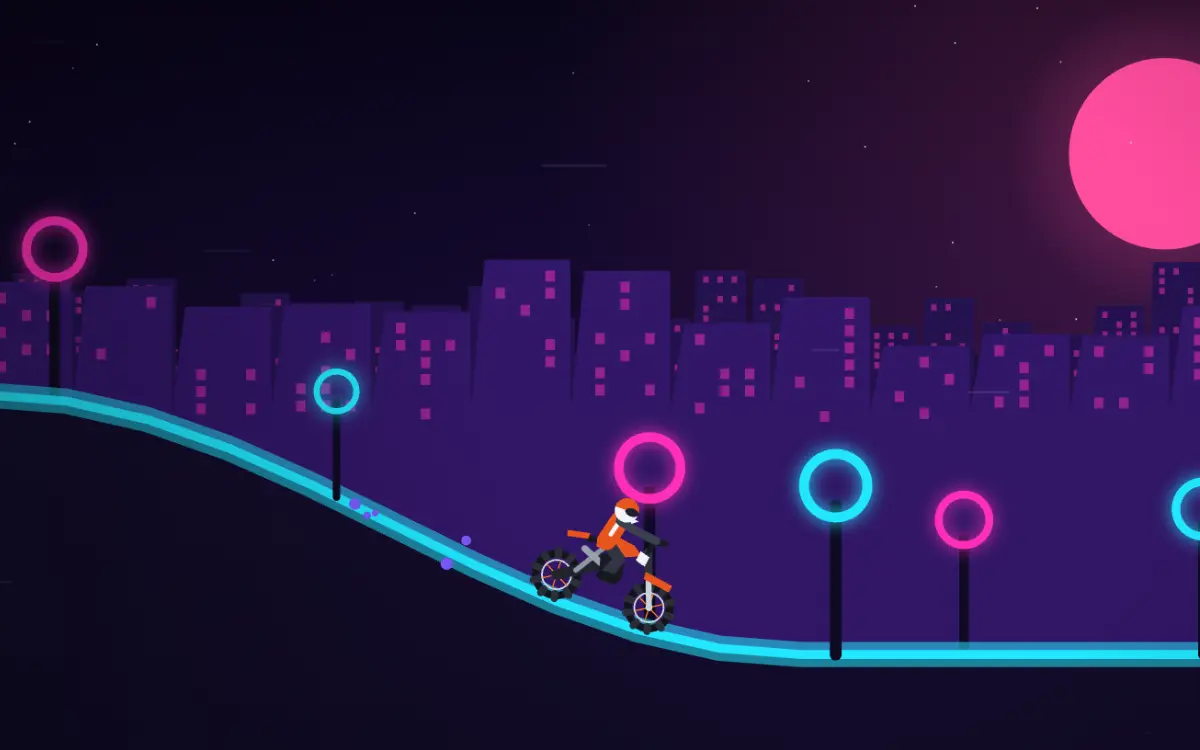
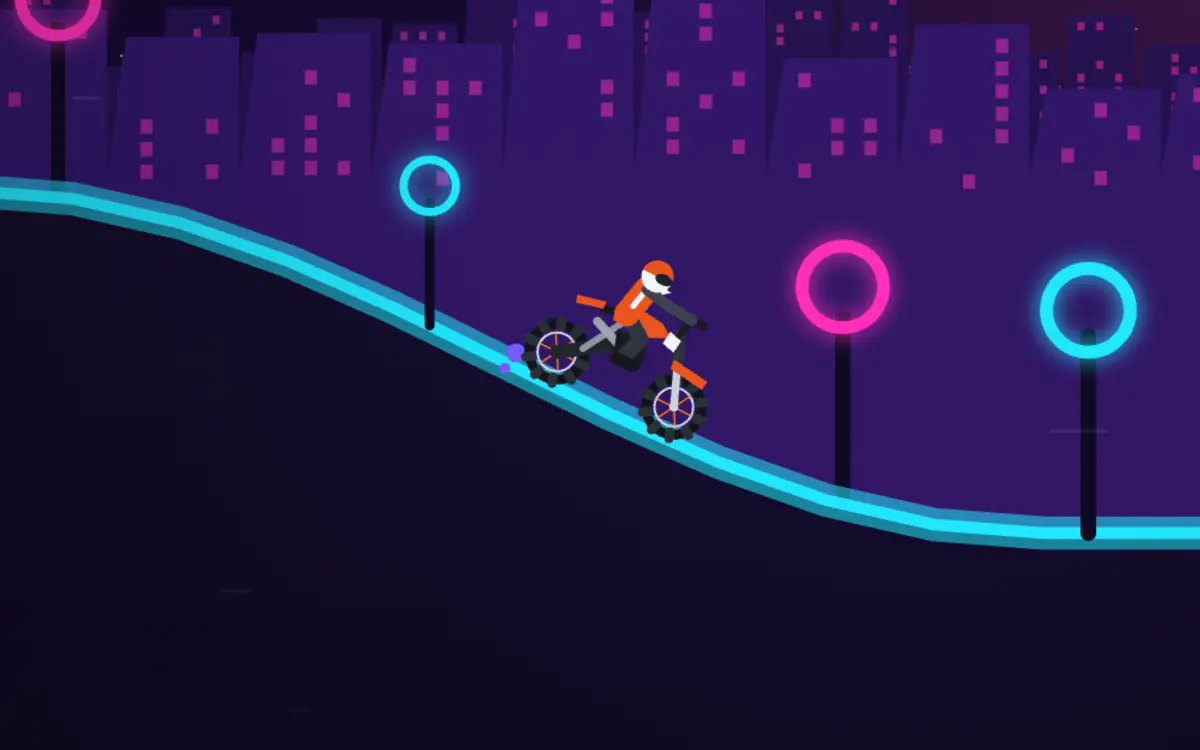
Resserre la vignette de Motopeter sur le motard et réordonne les jeux
Nouvelle liste "ordre" dans portfolio.json : les lignes citées (versions
comprises, ex. qwemup/clauded) passent en tête dans cet ordre.

Claude-Session: https://claude.ai/code/session_01WhWzxcP3VrJ1wEomCkFgci

diff --git a/index.html b/index.html
@@ -323,58 +323,13 @@ button{font:inherit;color:inherit}
     <div class="works-grid">
       <ol class="list" id="list">
         <!-- auto:projets -->
-        <li class="w" data-cat="jeu" style="--h:14">
-          <a href="/motopeter/">
-            <img class="w-img" src="/vignettes/motopeter.webp" alt="" width="1200" height="750" loading="lazy" decoding="async">
-            <span class="w-t"><span>Motopeter</span></span>
-            <span class="w-m">Claude Fable 5.1</span>
-            <span class="w-d">Trial 2D à moteur physique : inertie, suspensions, figures et nitro. Au clavier comme au doigt, sur plusieurs terrains.</span>
-            <span class="w-n" aria-hidden="true">01</span>
-          </a>
-        </li>
-        <li class="w" data-cat="jeu" style="--h:355">
-          <a href="/berceuse/">
-            <img class="w-img" src="/vignettes/berceuse.webp" alt="" width="1200" height="750" loading="lazy" decoding="async">
-            <span class="w-t"><span>Berceuse</span></span>
-            <span class="w-m">Claude Opus 5.5</span>
-            <span class="w-d">Horreur en 3D à la première personne : retrouver les quatre cylindres d'une boîte à musique dans une maison où Madame Vey n'avance que quand on ne la regarde pas… ou quand on <em>cligne des yeux</em>.</span>
-            <span class="w-n" aria-hidden="true">02</span>
-          </a>
-        </li>
-        <li class="w" data-cat="jeu" style="--h:18">
-          <a href="/baston/">
-            <img class="w-img" src="/vignettes/baston.webp" alt="" width="1200" height="750" loading="lazy" decoding="async">
-            <span class="w-t"><span>World Baston '96</span></span>
-            <span class="w-m">Claude Opus 5.5</span>
-            <span class="w-d">Jeu de baston 2D façon arcade 1996 : dix combattants du monde entier et un boss, coups spéciaux et supers, campagne avec un avion qui survole la <em>mappemonde</em> entre chaque combat, duel à deux, mode entraînement, compatible manette.</span>
-            <span class="w-n" aria-hidden="true">03</span>
-          </a>
-        </li>
-        <li class="w" data-cat="jeu" style="--h:350">
-          <a href="/beatemall/">
-            <img class="w-img" src="/vignettes/beatemall.webp" style="object-position:90% 0%" alt="" width="1200" height="750" loading="lazy" decoding="async">
-            <span class="w-t"><span>Rage in the City</span></span>
-            <span class="w-m">Claude Opus 5.5</span>
-            <span class="w-d">Beat'em up à défilement horizontal dans une ville rongée par le crime, 1989 : trois héros (catcheur, combattant de rue, ninja), prises, suplex, armes à ramasser, cinq niveaux dont un <em>métro en marche</em> et cinq boss. En solo ou à deux sur le même clavier.</span>
-            <span class="w-n" aria-hidden="true">04</span>
-          </a>
-        </li>
         <li class="w" data-cat="jeu" style="--h:24">
           <a href="/ultraroad/">
             <img class="w-img" src="/vignettes/ultraroad.webp" alt="" width="1200" height="750" loading="lazy" decoding="async">
             <span class="w-t"><span>UltraRoad</span></span>
             <span class="w-m">Claude Opus 5.5</span>
             <span class="w-d">Course tout-terrain arcade en 3D, hommage à <em>Super Off Road</em> : gros camions, sauts, boue et nitro, huit circuits et un championnat contre le Boss avec garage d'améliorations. Jusqu'à quatre joueurs sur le même écran, au clavier, à la manette ou au doigt.</span>
-            <span class="w-n" aria-hidden="true">05</span>
-          </a>
-        </li>
-        <li class="w" data-cat="divers" style="--h:355">
-          <a href="/clip-pc98/">
-            <img class="w-img" src="/vignettes/clip-pc98.webp" alt="" width="1200" height="750" loading="lazy" decoding="async">
-            <span class="w-t"><span>反逆のアイ — clip PC-98</span></span>
-            <span class="w-m">Claude Opus 5.5</span>
-            <span class="w-d">Clip musical façon AMV dans le style des jeux <em>PC-98</em> : Hikari mène la révolte contre ORACLE, l'IA qui surveille Néo-Tokyo. Image en 16 couleurs, musique en synthèse FM, tout généré par du code.</span>
-            <span class="w-n" aria-hidden="true">06</span>
+            <span class="w-n" aria-hidden="true">01</span>
           </a>
         </li>
         <li class="w" data-cat="jeu" style="--h:188">
@@ -383,6 +338,51 @@ button{font:inherit;color:inherit}
             <span class="w-t"><span>Rewind Raid</span></span>
             <span class="w-m">Claude Opus 5.5</span>
             <span class="w-d">Shoot'em up façon arcade 1996 : cinq niveaux, cinq boss, trois armes. Le twist : une cassette qui <em>rembobine le monde</em>, et les balles qui retournent blesser ceux qui les ont tirées.</span>
+            <span class="w-n" aria-hidden="true">02</span>
+          </a>
+        </li>
+        <li class="w" data-cat="jeu" style="--h:350">
+          <a href="/beatemall/">
+            <img class="w-img" src="/vignettes/beatemall.webp" style="object-position:90% 0%" alt="" width="1200" height="750" loading="lazy" decoding="async">
+            <span class="w-t"><span>Rage in the City</span></span>
+            <span class="w-m">Claude Opus 5.5</span>
+            <span class="w-d">Beat'em up à défilement horizontal dans une ville rongée par le crime, 1989 : trois héros (catcheur, combattant de rue, ninja), prises, suplex, armes à ramasser, cinq niveaux dont un <em>métro en marche</em> et cinq boss. En solo ou à deux sur le même clavier.</span>
+            <span class="w-n" aria-hidden="true">03</span>
+          </a>
+        </li>
+        <li class="w" data-cat="jeu" style="--h:25">
+          <a href="/qwemup/clauded/">
+            <img class="w-img" src="/vignettes/qwemup-clauded.webp" alt="" width="1200" height="750" loading="lazy" decoding="async">
+            <span class="w-t"><span>Nebula Strike 4</span></span>
+            <span class="w-m">Claude Fable 5.1</span>
+            <span class="w-d">Le même cahier des charges, repris de zéro par Claude Fable 5.1 : un seul fichier HTML, zéro dépendance. À comparer avec les trois autres.</span>
+            <span class="w-n" aria-hidden="true">04</span>
+          </a>
+        </li>
+        <li class="w" data-cat="jeu" style="--h:18">
+          <a href="/baston/">
+            <img class="w-img" src="/vignettes/baston.webp" alt="" width="1200" height="750" loading="lazy" decoding="async">
+            <span class="w-t"><span>World Baston '96</span></span>
+            <span class="w-m">Claude Opus 5.5</span>
+            <span class="w-d">Jeu de baston 2D façon arcade 1996 : dix combattants du monde entier et un boss, coups spéciaux et supers, campagne avec un avion qui survole la <em>mappemonde</em> entre chaque combat, duel à deux, mode entraînement, compatible manette.</span>
+            <span class="w-n" aria-hidden="true">05</span>
+          </a>
+        </li>
+        <li class="w" data-cat="jeu" style="--h:195">
+          <a href="/qwemup/deepseek4/">
+            <img class="w-img" src="/vignettes/qwemup-deepseek4.webp" alt="" width="1200" height="750" loading="lazy" decoding="async">
+            <span class="w-t"><span>Nebula Strike 3</span></span>
+            <span class="w-m">Deepseek 4.0 local</span>
+            <span class="w-d">Le même énoncé vu par Deepseek 4.0 en local : vagues d'ennemis, boss et score, jouable au clavier ou en glissant le doigt.</span>
+            <span class="w-n" aria-hidden="true">06</span>
+          </a>
+        </li>
+        <li class="w" data-cat="jeu" style="--h:210">
+          <a href="/qwemup/gemma/">
+            <img class="w-img" src="/vignettes/qwemup-gemma.webp" alt="" width="1200" height="750" loading="lazy" decoding="async">
+            <span class="w-t"><span>Nebula Strike 2</span></span>
+            <span class="w-m">Gemma local</span>
+            <span class="w-d">La deuxième lecture du même énoncé, par Gemma en local. Quatre modèles, quatre shoot'em up, une seule page chacun.</span>
             <span class="w-n" aria-hidden="true">07</span>
           </a>
         </li>
@@ -395,30 +395,30 @@ button{font:inherit;color:inherit}
             <span class="w-n" aria-hidden="true">08</span>
           </a>
         </li>
-        <li class="w" data-cat="jeu" style="--h:210">
-          <a href="/qwemup/gemma/">
-            <img class="w-img" src="/vignettes/qwemup-gemma.webp" alt="" width="1200" height="750" loading="lazy" decoding="async">
-            <span class="w-t"><span>Nebula Strike 2</span></span>
-            <span class="w-m">Gemma local</span>
-            <span class="w-d">La deuxième lecture du même énoncé, par Gemma en local. Quatre modèles, quatre shoot'em up, une seule page chacun.</span>
+        <li class="w" data-cat="jeu" style="--h:14">
+          <a href="/motopeter/">
+            <img class="w-img" src="/vignettes/motopeter.webp" alt="" width="1200" height="750" loading="lazy" decoding="async">
+            <span class="w-t"><span>Motopeter</span></span>
+            <span class="w-m">Claude Fable 5.1</span>
+            <span class="w-d">Trial 2D à moteur physique : inertie, suspensions, figures et nitro. Au clavier comme au doigt, sur plusieurs terrains.</span>
             <span class="w-n" aria-hidden="true">09</span>
           </a>
         </li>
-        <li class="w" data-cat="jeu" style="--h:195">
-          <a href="/qwemup/deepseek4/">
-            <img class="w-img" src="/vignettes/qwemup-deepseek4.webp" alt="" width="1200" height="750" loading="lazy" decoding="async">
-            <span class="w-t"><span>Nebula Strike 3</span></span>
-            <span class="w-m">Deepseek 4.0 local</span>
-            <span class="w-d">Le même énoncé vu par Deepseek 4.0 en local : vagues d'ennemis, boss et score, jouable au clavier ou en glissant le doigt.</span>
+        <li class="w" data-cat="jeu" style="--h:355">
+          <a href="/berceuse/">
+            <img class="w-img" src="/vignettes/berceuse.webp" alt="" width="1200" height="750" loading="lazy" decoding="async">
+            <span class="w-t"><span>Berceuse</span></span>
+            <span class="w-m">Claude Opus 5.5</span>
+            <span class="w-d">Horreur en 3D à la première personne : retrouver les quatre cylindres d'une boîte à musique dans une maison où Madame Vey n'avance que quand on ne la regarde pas… ou quand on <em>cligne des yeux</em>.</span>
             <span class="w-n" aria-hidden="true">10</span>
           </a>
         </li>
-        <li class="w" data-cat="jeu" style="--h:25">
-          <a href="/qwemup/clauded/">
-            <img class="w-img" src="/vignettes/qwemup-clauded.webp" alt="" width="1200" height="750" loading="lazy" decoding="async">
-            <span class="w-t"><span>Nebula Strike 4</span></span>
-            <span class="w-m">Claude Fable 5.1</span>
-            <span class="w-d">Le même cahier des charges, repris de zéro par Claude Fable 5.1 : un seul fichier HTML, zéro dépendance. À comparer avec les trois autres.</span>
+        <li class="w" data-cat="divers" style="--h:355">
+          <a href="/clip-pc98/">
+            <img class="w-img" src="/vignettes/clip-pc98.webp" alt="" width="1200" height="750" loading="lazy" decoding="async">
+            <span class="w-t"><span>反逆のアイ — clip PC-98</span></span>
+            <span class="w-m">Claude Opus 5.5</span>
+            <span class="w-d">Clip musical façon AMV dans le style des jeux <em>PC-98</em> : Hikari mène la révolte contre ORACLE, l'IA qui surveille Néo-Tokyo. Image en 16 couleurs, musique en synthèse FM, tout généré par du code.</span>
             <span class="w-n" aria-hidden="true">11</span>
           </a>
         </li>

diff --git a/README.md b/README.md
@@ -55,7 +55,8 @@ et vérifie que Pages est bien en mode « GitHub Actions ».
 
 Sa ligne sur la page d'accueil apparaîtra toute seule, avec son affiche. Pour
 lui écrire une vraie présentation (titre, texte, teinte), ajoute une entrée à
-`portfolio.json` — l'ordre des clés y est l'ordre d'affichage — puis :
+`portfolio.json` — l'ordre des clés y est l'ordre d'affichage, sauf pour les
+lignes citées dans `"ordre"`, qui passent en tête — puis :
 
 ```sh
 tools/render-home.mjs        # met à jour l'index.html versionné
